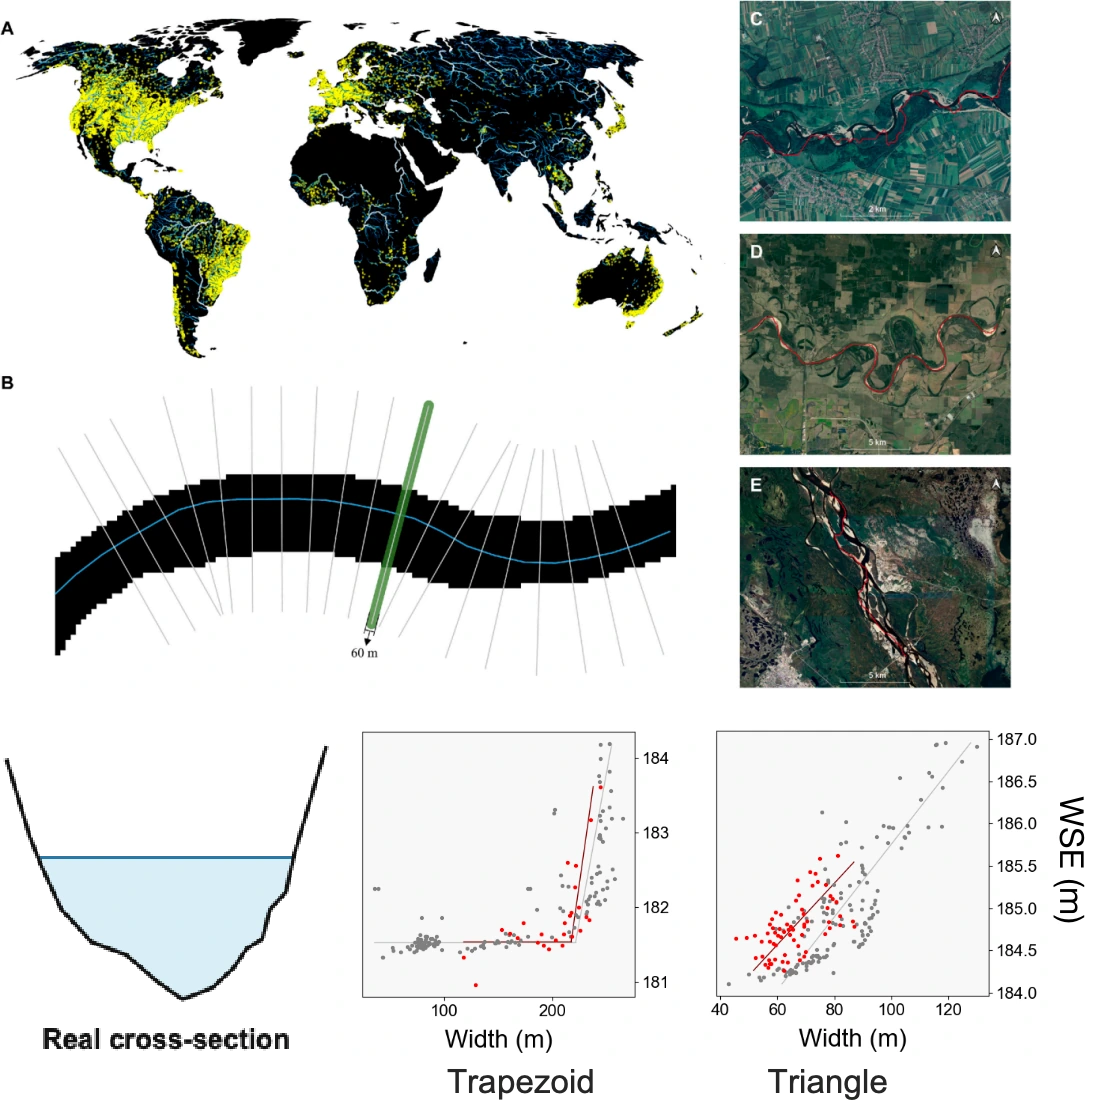
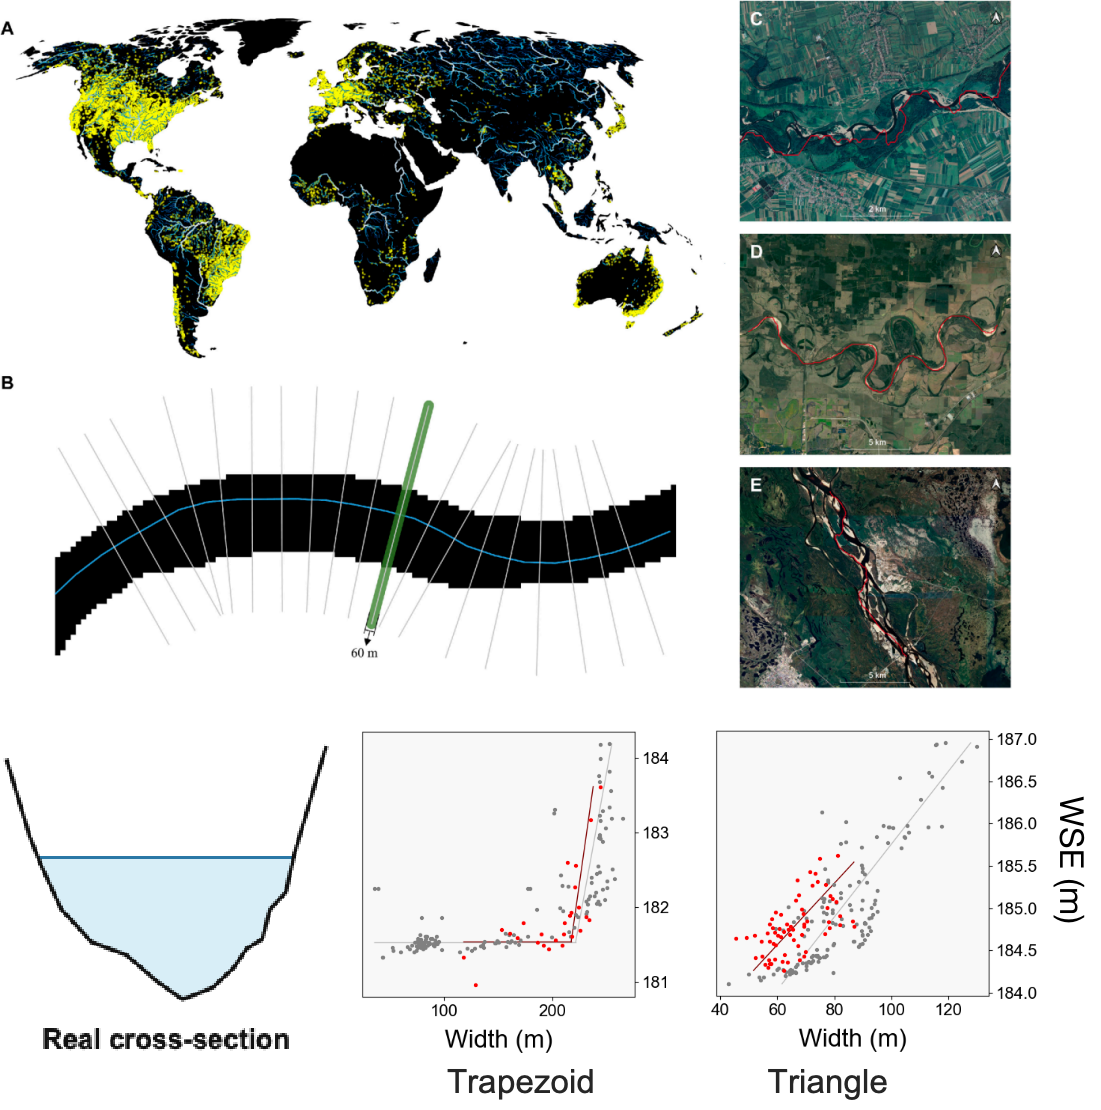
Rebuild research WebP images from PNG masters

diff --git a/current-research.html b/current-research.html
@@ -37,7 +37,7 @@
         <article class="research-question-split research-project">
           <div class="research-shell research-question-split__grid">
             <figure class="research-question-split__media research-question-split__media--composite">
-              <img src="assets/research/project-01-spatial-information.jpg?v=3" alt="Global river networks, satellite examples, channel cross-section geometry, and width–elevation relationships used to estimate channel geometry and river flow" loading="lazy">
+              <img src="assets/research/project-01-spatial-information.webp?v=4" alt="Global river networks, satellite examples, channel cross-section geometry, and width–elevation relationships used to estimate channel geometry and river flow" loading="lazy">
             </figure>
             <div class="research-question-split__copy">
               <p class="research-question-split__number">01</p>
@@ -60,7 +60,7 @@
         <article class="research-question-split research-question-split--reverse research-project">
           <div class="research-shell research-question-split__grid">
             <figure class="research-question-split__media research-question-split__media--composite">
-              <img src="assets/research/project-02-human-alterations.jpg?v=3" alt="Human perturbations to river flow through water use, channel construction, land-cover change, climate warming, and reservoir regulation in the time and frequency domains" loading="lazy">
+              <img src="assets/research/project-02-human-alterations.webp?v=4" alt="Human perturbations to river flow through water use, channel construction, land-cover change, climate warming, and reservoir regulation in the time and frequency domains" loading="lazy">
             </figure>
             <div class="research-question-split__copy">
               <p class="research-question-split__number">02</p>
